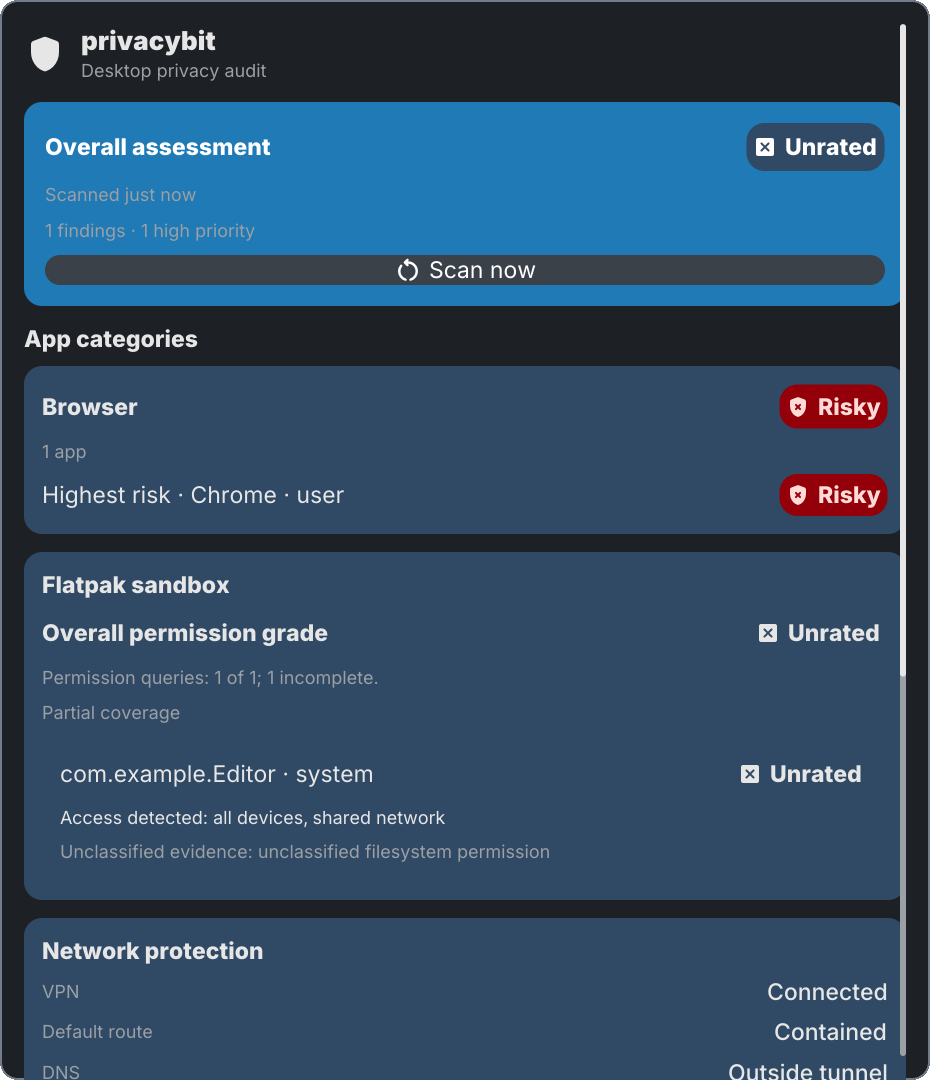
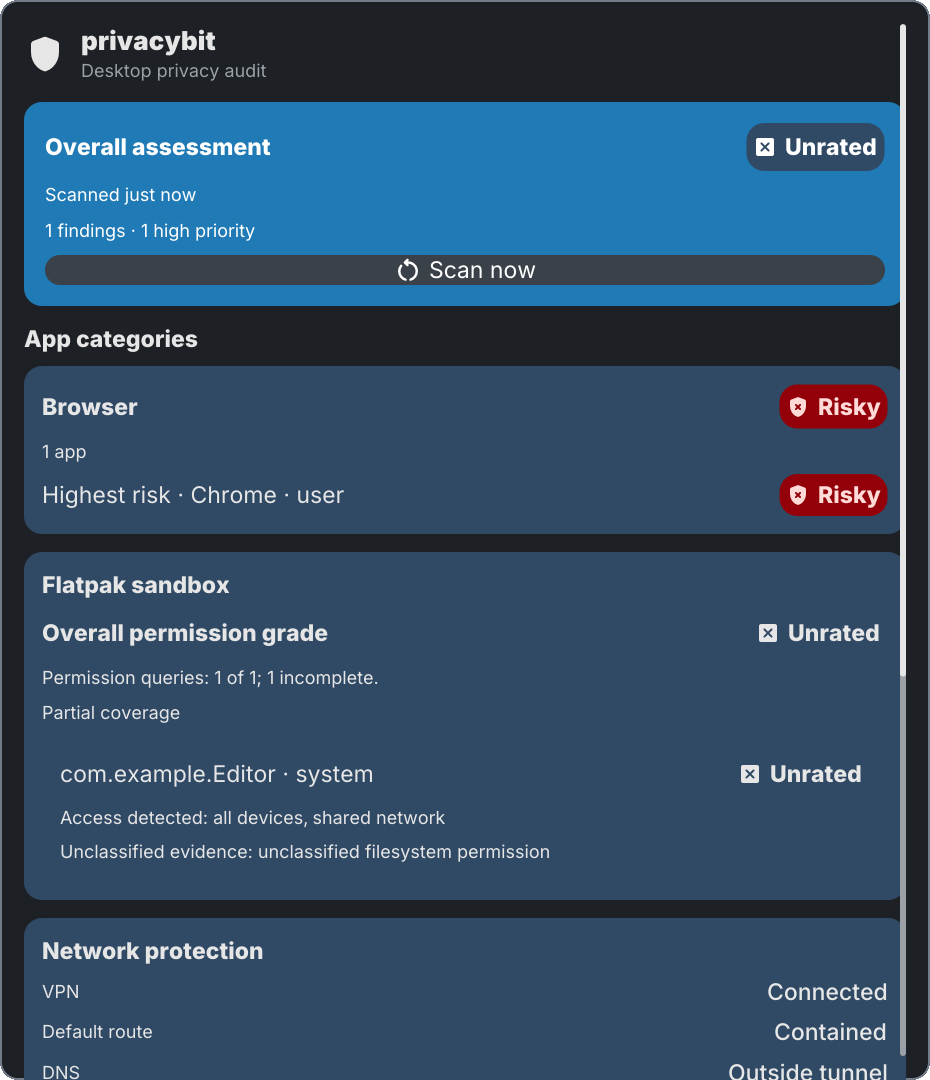
fix(privacy): preserve text contrast in cards

diff --git a/plugins/privacy/view.go b/plugins/privacy/view.go
@@ -104,10 +104,10 @@ func panelSummary(snapshot Snapshot, now time.Time, grade string, scanning bool,
 			{Kind: v1.KindText, Text: "Overall assessment", Size: "label", Bold: true},
 			gradeChip(grade, "privacy-grade"),
 		}},
-		{Kind: v1.KindText, Text: scanAge(snapshot.GeneratedAt, now), Size: "caption", Tone: v1.ToneSubtle},
+		{Kind: v1.KindText, Text: scanAge(snapshot.GeneratedAt, now), Size: "caption"},
 	}
 	if snapshot.Available && snapshotCurrent(snapshot, now) {
-		rows = append(rows, &v1.Node{Kind: v1.KindText, Text: findingCount(snapshot), Size: "caption", Tone: v1.ToneSubtle})
+		rows = append(rows, &v1.Node{Kind: v1.KindText, Text: findingCount(snapshot), Size: "caption"})
 	}
 	label := "Scan now"
 	if scanning {
@@ -118,7 +118,7 @@ func panelSummary(snapshot Snapshot, now time.Time, grade string, scanning bool,
 		Events: []v1.EventKind{v1.EventActivate},
 	})
 	if scanMessage != "" {
-		rows = append(rows, &v1.Node{Kind: v1.KindText, Text: text(scanMessage, maxSummaryBytes), Size: "caption", Tone: v1.ToneSubtle})
+		rows = append(rows, &v1.Node{Kind: v1.KindText, Text: text(scanMessage, maxSummaryBytes), Size: "caption"})
 	}
 	return &v1.Node{Kind: v1.KindColumn, Key: "privacy-summary", Gap: 8, Fill: "container", Shape: "large", Padding: 14, Children: rows,
 		Tooltip: "Overall: " + style.word}
@@ -364,7 +364,24 @@ func sectionTitle(label string) *v1.Node {
 }
 
 func card(key string, children ...*v1.Node) *v1.Node {
+	for _, child := range children {
+		cardForeground(child)
+	}
 	return &v1.Node{Kind: v1.KindColumn, Key: key, Gap: 7, Fill: "soft", Shape: "card", Padding: 12, Children: children}
+}
+
+// Soft cards supply their own high-contrast foreground; ToneSubtle switches
+// back to the surface-only muted role and can become unreadable on the accent wash.
+func cardForeground(node *v1.Node) {
+	if node == nil {
+		return
+	}
+	if node.Kind == v1.KindText && node.Tone == v1.ToneSubtle {
+		node.Tone = v1.ToneNormal
+	}
+	for _, child := range node.Children {
+		cardForeground(child)
+	}
 }
 
 func valueRow(label, value string) *v1.Node {

diff --git a/plugins/privacy/view_test.go b/plugins/privacy/view_test.go
@@ -136,6 +136,36 @@ func TestPrivacyPanelScanButtonIsDisabledWhileScanning(t *testing.T) {
 	}
 }
 
+func TestPrivacyPanelFilledSurfacesUseTheirPairedForeground(t *testing.T) {
+	now := time.Date(2026, 10, 23, 10, 0, 0, 0, time.UTC)
+	snapshot := testSnapshot("unknown", now)
+	snapshot.Sandbox = &Sandbox{
+		Applicable: true, Grade: "unknown", AppsTotal: 1, AppsChecked: 1,
+		AppsIncomplete: 1, PartialCoverage: true,
+		Apps: []SandboxApp{{
+			ID: "com.example.Editor", Scope: "system", Grade: "unknown",
+			Grants: []string{"all devices"}, Unknown: []string{"unclassified filesystem permission"},
+		}},
+		AppsShown: 1,
+	}
+	root := PanelTree(snapshot, now, false, "")
+
+	var check func(*v1.Node, bool)
+	check = func(node *v1.Node, filled bool) {
+		if node == nil {
+			return
+		}
+		filled = filled || node.Fill == "container" || node.Fill == "soft"
+		if filled && node.Kind == v1.KindText && node.Tone == v1.ToneSubtle {
+			t.Errorf("subtle text %q overrides the foreground paired with its filled surface", node.Text)
+		}
+		for _, child := range node.Children {
+			check(child, filled)
+		}
+	}
+	check(root, false)
+}
+
 func TestPrivacyPanelKeepsWorstAppAndSuggestionCountsWhenListsAreTruncated(t *testing.T) {
 	now := time.Date(2026, 10, 23, 10, 0, 0, 0, time.UTC)
 	snapshot := testSnapshot("red", now)
